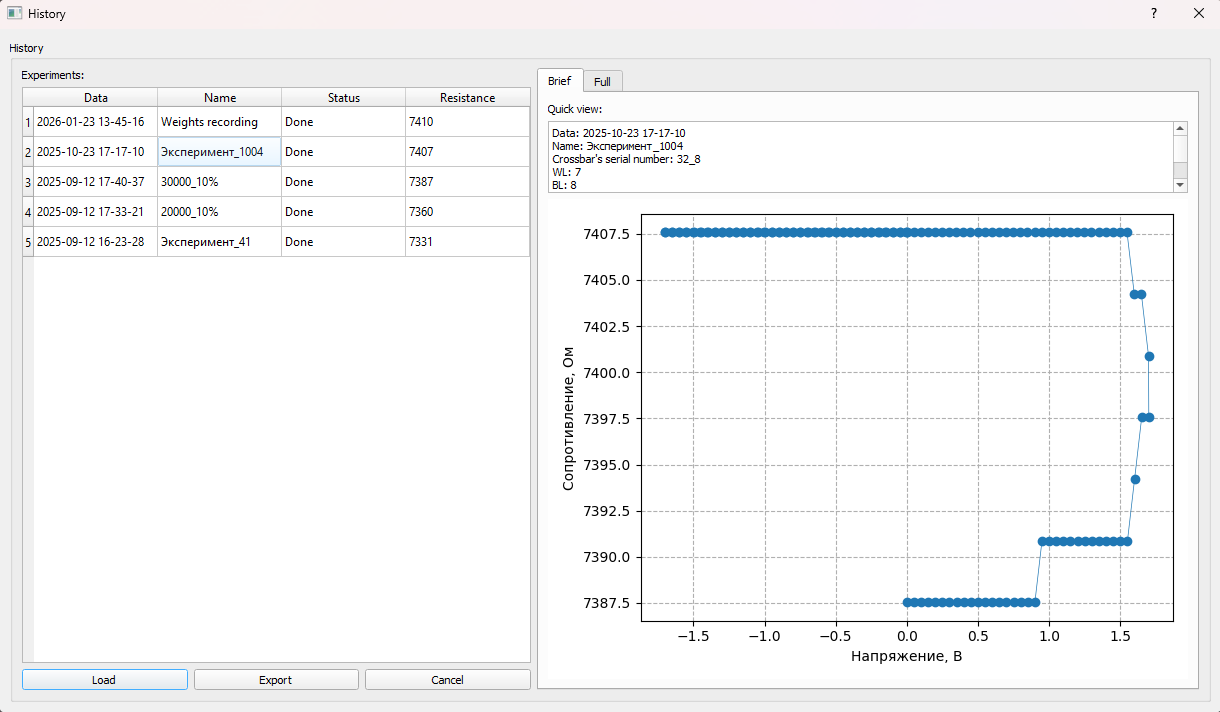
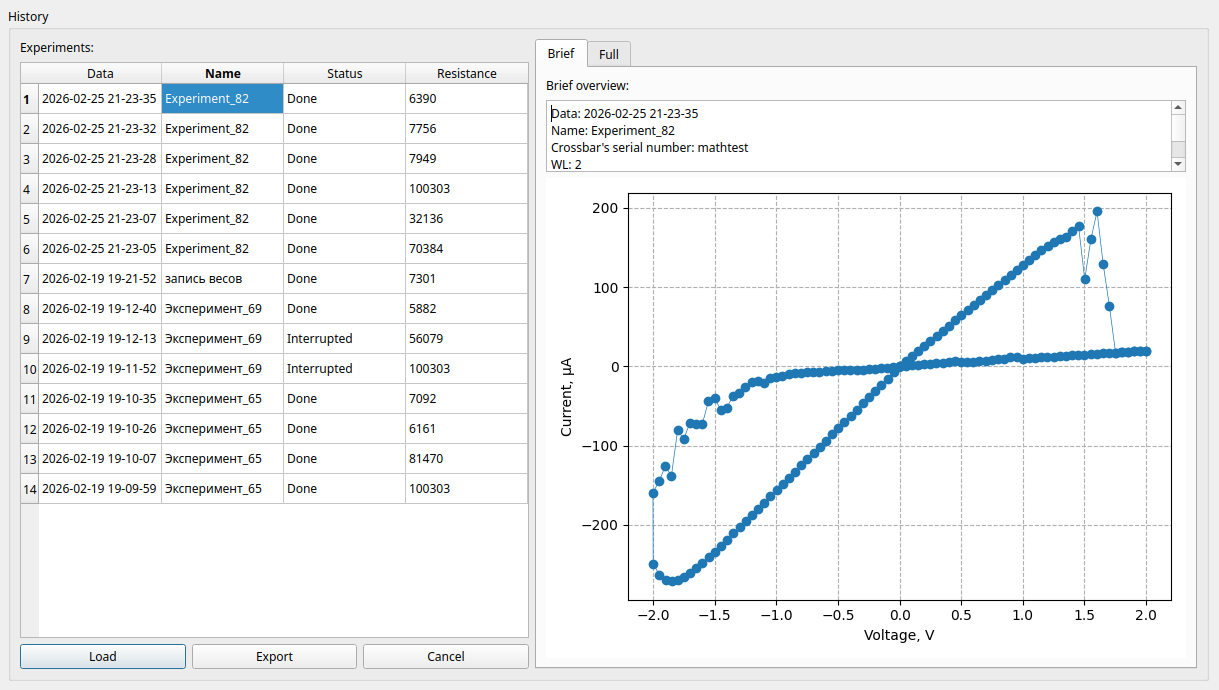
Revising english docs

diff --git a/docs/README.md b/docs/README.md
@@ -1,69 +1,85 @@
+# MemriBoard Manual
+
 ## Table of contents
 
-- [Product Overview](#Product-Overview)
-- [Cells operating](#Cells-operating)
+- [**Product Overview**](#product-overview)
+- [**Working with individual cells**](#working-with-individual-cells)
 <!-- - [Инференс нейросети](#инференс-нейросети)
 - [Демо нейросети](#демо-нейросети)  -->
 
-### Product Overview
-<p>The program can run on any operating system with python 3.9 or higher support.</p>
-<p>A start-up window appears at startup. In it, you can select the COM port to which the device is connected, or select the mode of the device software simulation:</p> 
+## Product Overview
 
-###### Starting connection window:
-![Starting connection window](assets/connect_window.png)
+The program can run on any operating system with python 3.9 or higher support.
 
-<p>It is possible to add multiple crossbars if the device is used with different crossbars. A separate interaction history log is created for each.</p>
+### Connecting the crossbar array
 
-<p>When adding a crossbar, you enter its serial number, the number of rows and columns in the crossbar (applicable for various architectures and experimental connection), the type of commands (switched, without switching), the type of crossbar, and, if necessary, a comment:</p>
+The connection window appears at startup. In it, you can select a crossbar you are working with, COM-port to which the device is connected, or choose the simulation mode.
 
+![Connection window](assets/connect_window.png)
 
-###### Crossbar creation window:
-![Connection window unwrapped](assets/add_crossbar.png)
+It is possible to add multiple crossbars if the device is used with different crossbars. A separate interaction history log is created for each.
 
-###### Settings
-- Configuration update functionality from settings.ini.
-- Selection of ADC width (10 bits (Arduino ADC) and 14 bits (external ADC, oversampling)).
-- Adjustment of calibration factor.
-- Adjustment of the software current limiter (by predicting the current of the next pulse, based on the resistance).  
-###### Settings window:
-![Settings window](assets/settings.png)
+#### Creating a database entry for new crossbar array
 
+![Crossbar creation](assets/add_crossbar.png)
 
+When adding a crossbar array, enter its **serial number**, the number of rows (**BL** &mdash; Bit Line) and columns (**WL** &mdash; Word Line) in the crossbar array (applicable for various architectures and experimental connection), the type of commands (switched, without switching), **crossbar type** (simulator or real), and, if necessary, a comment.
 
-<p>
-If you are adding a real crossbar, you must first connect the device to the USB port, and specify the port name in the "Select COM port" field.
+If you are adding a real crossbar, you must first connect the device to the USB port, and specify the port name in the **Choose COM-port** field.
 After connecting, a new crossbar is created in memory, or an existing one is loaded, and a view and interaction window opens.
 
-##### Main window:
+#### Settings
+
+![Settings window](assets/settings.png)
+
+- **Update** the configutation from settings.ini.
+- Selection of **ADC bit depth**: 10 bits (Arduino ADC) or 14 bits (external ADC, oversampling).
+- Adjustment of **calibration coefficient**.
+- Adjustment of the software **current limiter (CC)** (works by predicting the current of the next pulse, based on last measured resistance).
+
+## Main window
+
 ![Window](assets/connected.png)
-- RRAM for working with memory.
-- Math for matrix multiplication.
-- ANN for working with neural networks.
-- Tests to conduct general crossbar testing with multiple cells.
-- Snapshot contains a crossbar color map.
-- [Settings](#Settings).
-</p>
 
-### Working width individual cells
-<p>In addition to the general functionality, it is possible to work with each cell separately. To open the cell menu, double-click on it with the left mouse button.
+Main window has a table which displays resistances of the memory cells. At the top of the window, there are general functionality buttons:
 
-###### Crossbar cell Window:
+- **RRAM** for working with the crossbar array as a memory bank.
+- **Math** for matrix multiplication.
+- **ANN** for working with neural networks (WIP).
+- [**Tests**](#tests) to conduct general crossbar testing on multiple cells.
+- **Snapshot** shows a color map of the resistances.
+- [**Settings**](#settings).
+
+### Working with individual cells
+
+In addition to the general functionality, it is possible to work with each cell separately. To open the cell menu, double-click on it with the left mouse button.
+
 ![Crossbar_cell](assets/crossbar_cell.png)
 
 The window that opens displays the basic information about the cell and contains basic functionality for working with it:
 
+- **Update** &mdash; read the resistance of the cell.
+- [**History**](#history-window) &mdash; get the journal of all experiments conducted on the cell.
+- [**New experiment**](#configuring-your-experiment) &mdash; create new experiment plan.
 
-- "Update" - read the resistance of the cell.
-- ###### "History"
-    Opens a window displaying all experiments performed on the cell. By clicking on the experiment you can get it's brief overview ("Brief" tab on the right side of the window) or **export measurement data** to csv ("Full" tab on the right side of the window, then press "Export to csv"). The data is exported separately for each part of the experiment (ticket).
-    In lower left part of the window, you can **load the experiment** to [repeat](#signal-editing-window) it or export the experiment plan as a single ticket.
-    ![Cell History Window](assets/history.png)
-- "New experiment" - opens the window for creating an experiment.
-Allows you to create a new experiment with a cell. It is made up of preset signals, it is possible to add your own type of signal, for this you need to press the "New Experiment" button. To add a signal to the experiment, select the signal and click twice with the left mouse button, or click the "Add to Plan" button.
-On the right is a column with the experimental plan, where the sequence of signals is described. If necessary, you can edit the parameters of the signal, move it relative to the rest, or delete it. After setting the parameters, you must enter the name of the experiment.
+#### History window
+
+![Cell History Window](assets/history.png)
+
+The window displays all experiments performed on the cell. By clicking on the experiment you can get it's brief overview (**Brief** tab on the right side of the window) or ***export measurement data*** to csv (**Full** tab on the right side of the window, then press **Export to csv**). The data is exported separately for each part of the experiment (ticket).
+In lower left part of the window, you can **load the experiment** to [repeat](#signal-editing-window) it or export the experiment plan as a single ticket.
+
+### Configuring your experiment
+
+Experiment configuration window can be opened via [Cell info](#working-with-individual-cells) window or via [Tests](#tests) window.
+
+![Experiment plan window](assets/new_exp.png)
+
+The window allows you to create a new experiment with a cell. It is made up of tickets &mdash; preset experiments, such as iv-curve, endurance, programming, etc. You can **add** multiple tickets from left side of the window to the experiment plan (**Add to plan** button), or you can create a new ticket (**New** button in the bottom left corner). The **Load** button on the right side of the window allows you to load a ticket that was previously applied to one of the cells. You can also directly **import** tickets from a *.json* file.
+You can enter the experiment **name** in the lower right part of the window.
+By double-clicking the ticket on the right side of the window (or pressing **Edit** button), you can adjust the ticket parameters (voltage applied to the cell, number of cycles, etc.): the [Signal editing window](#signal-editing-window) opens.
+
 ###### Signal editing window:
-
-![Signal Edit Window](assets/new_exp.png)
 When editing a signal or creating a new one, the signal editing window opens. Each signal consists of two parts - an adjustable pulse of action on the cell, and a pulse of reading the state of the cell. Pulse of interaction has settings of amplitude, duration, and order of signal supply in case of its multiplicity. The signal can be either forward (reset) or reverse (set). It is possible to set the reason for the interruption of the signal and preview its graph. Start, stop and step are indicated in volts.
 For example, to remove the VAC of the cell, the following parameters are indicated:
 
@@ -85,6 +101,8 @@ After the experiment is completed, a notification of completion will be shown, a
 ###### BAX Cell Experiment Window:
 ![Experiment Window](assets/apply.png)
 </p>
+
+### Tests
 
 
 <!-- 
